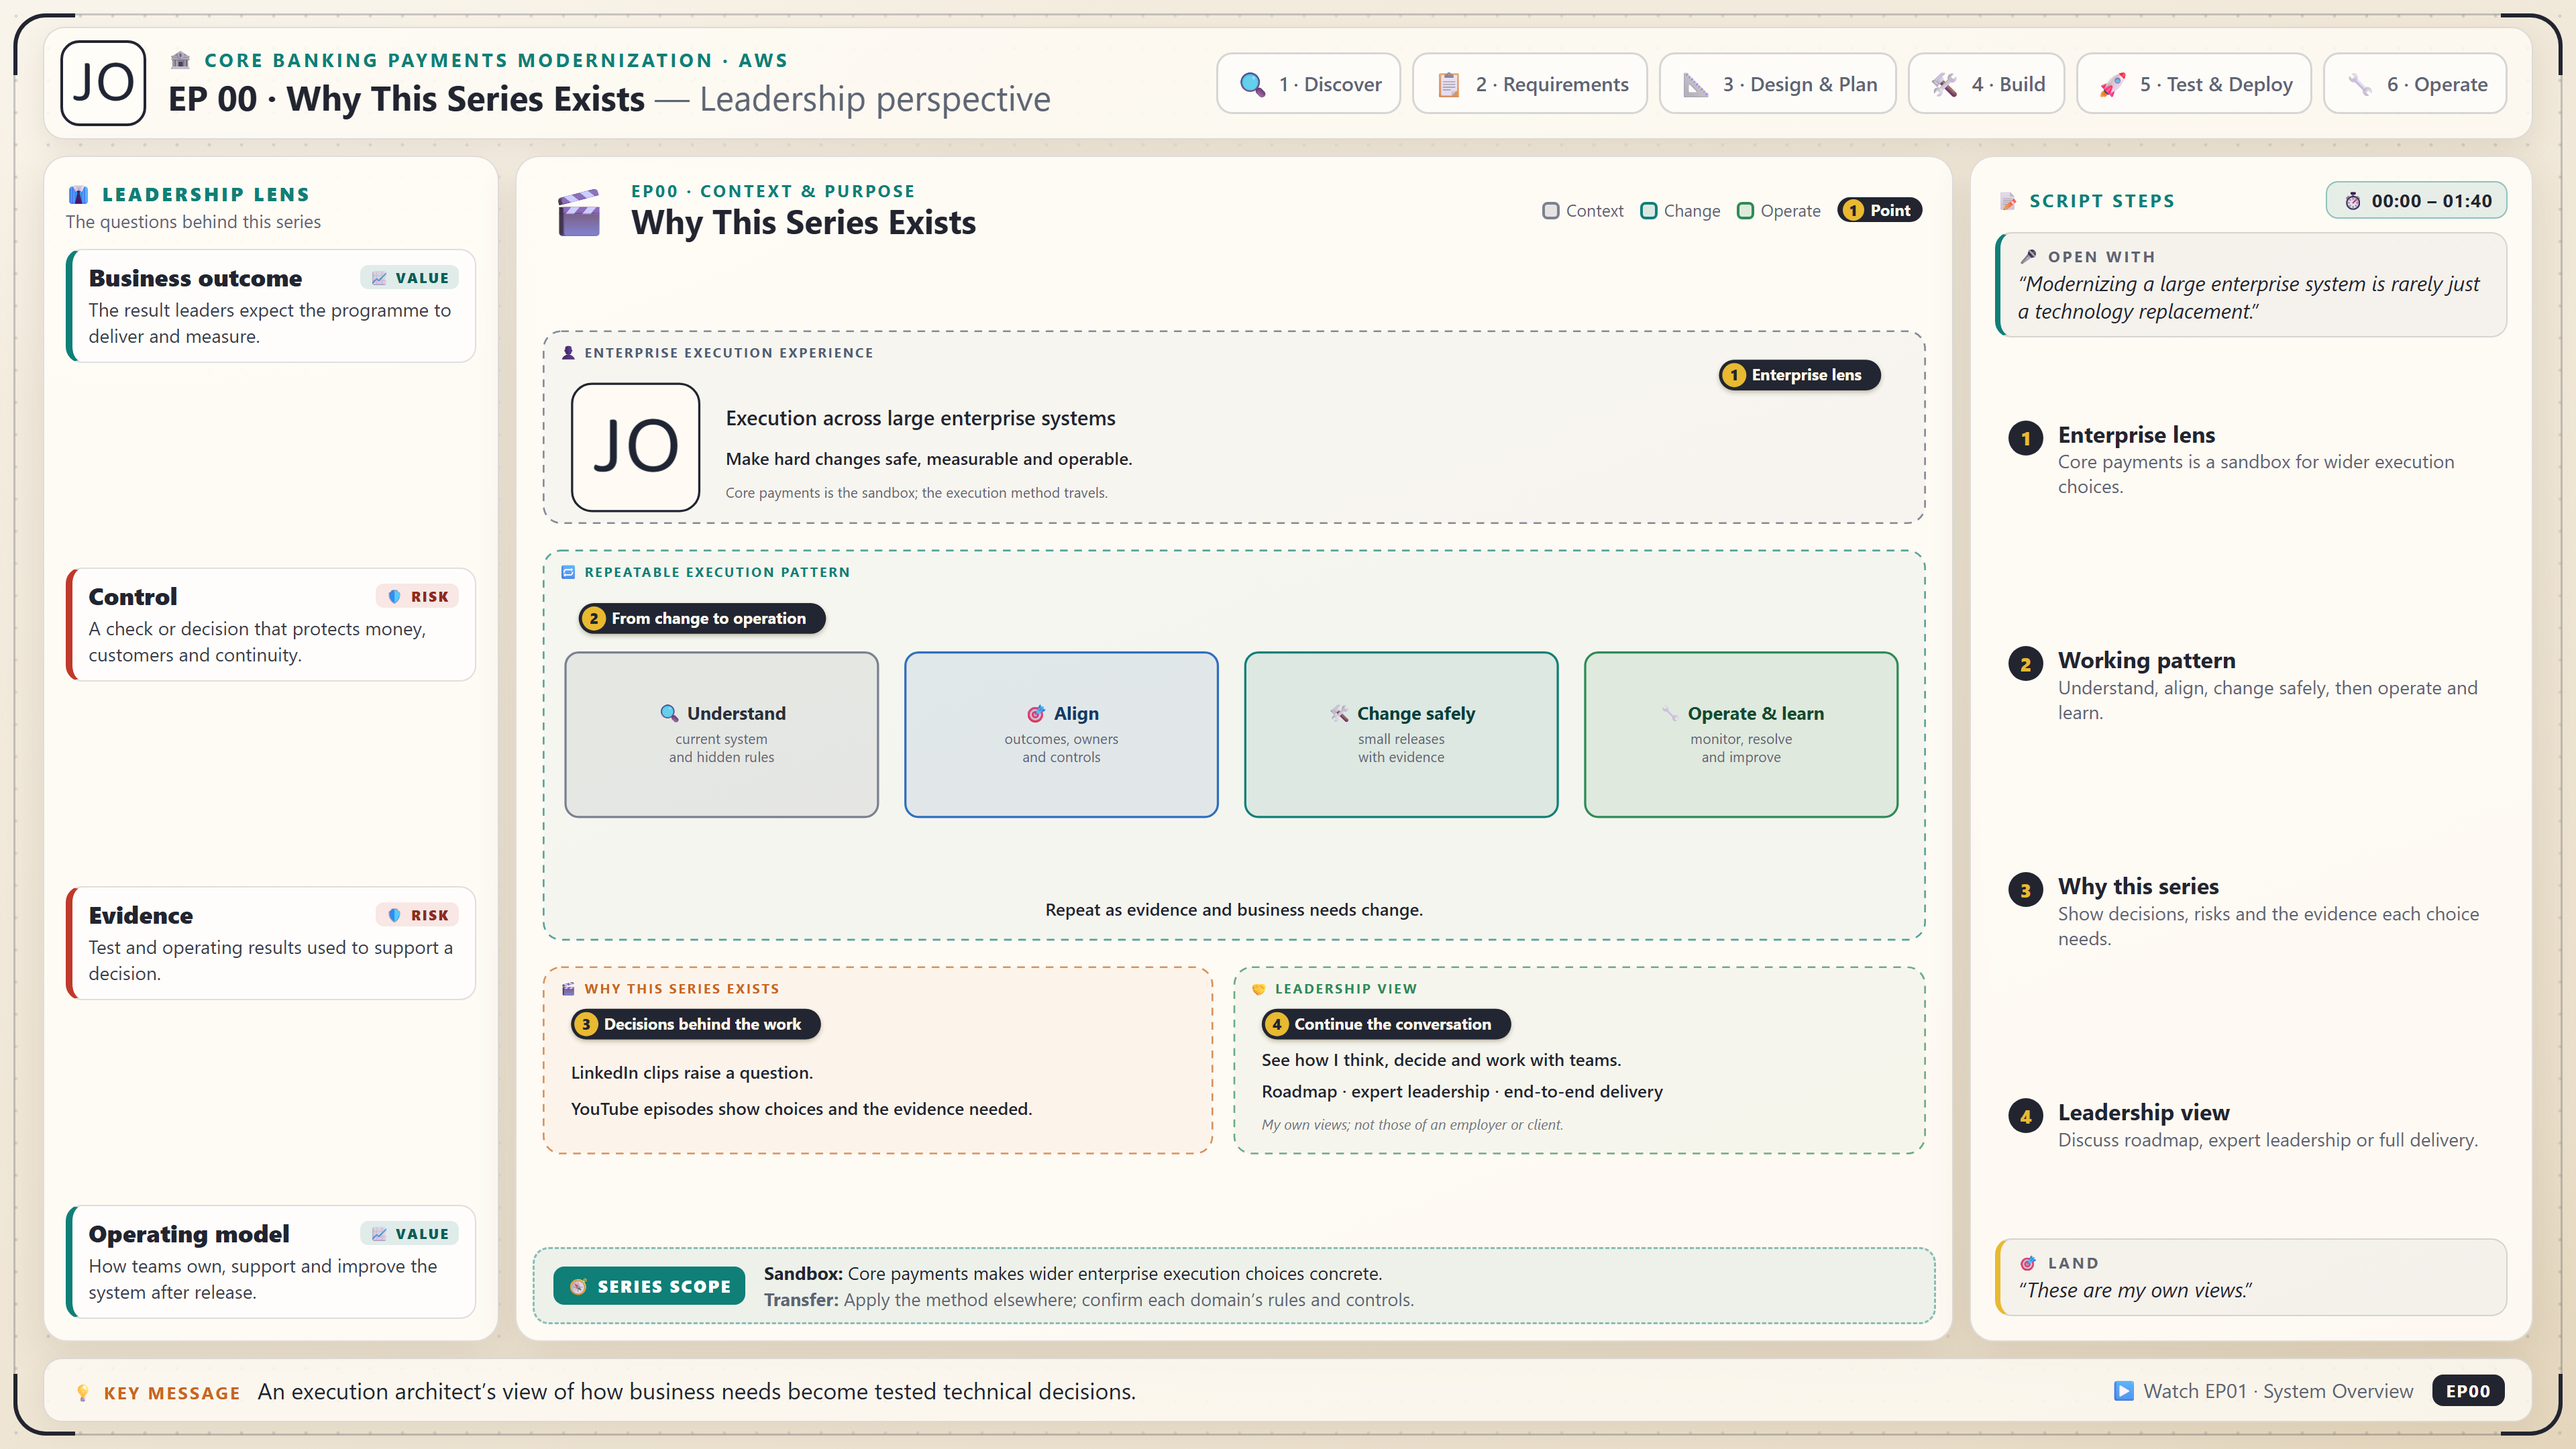
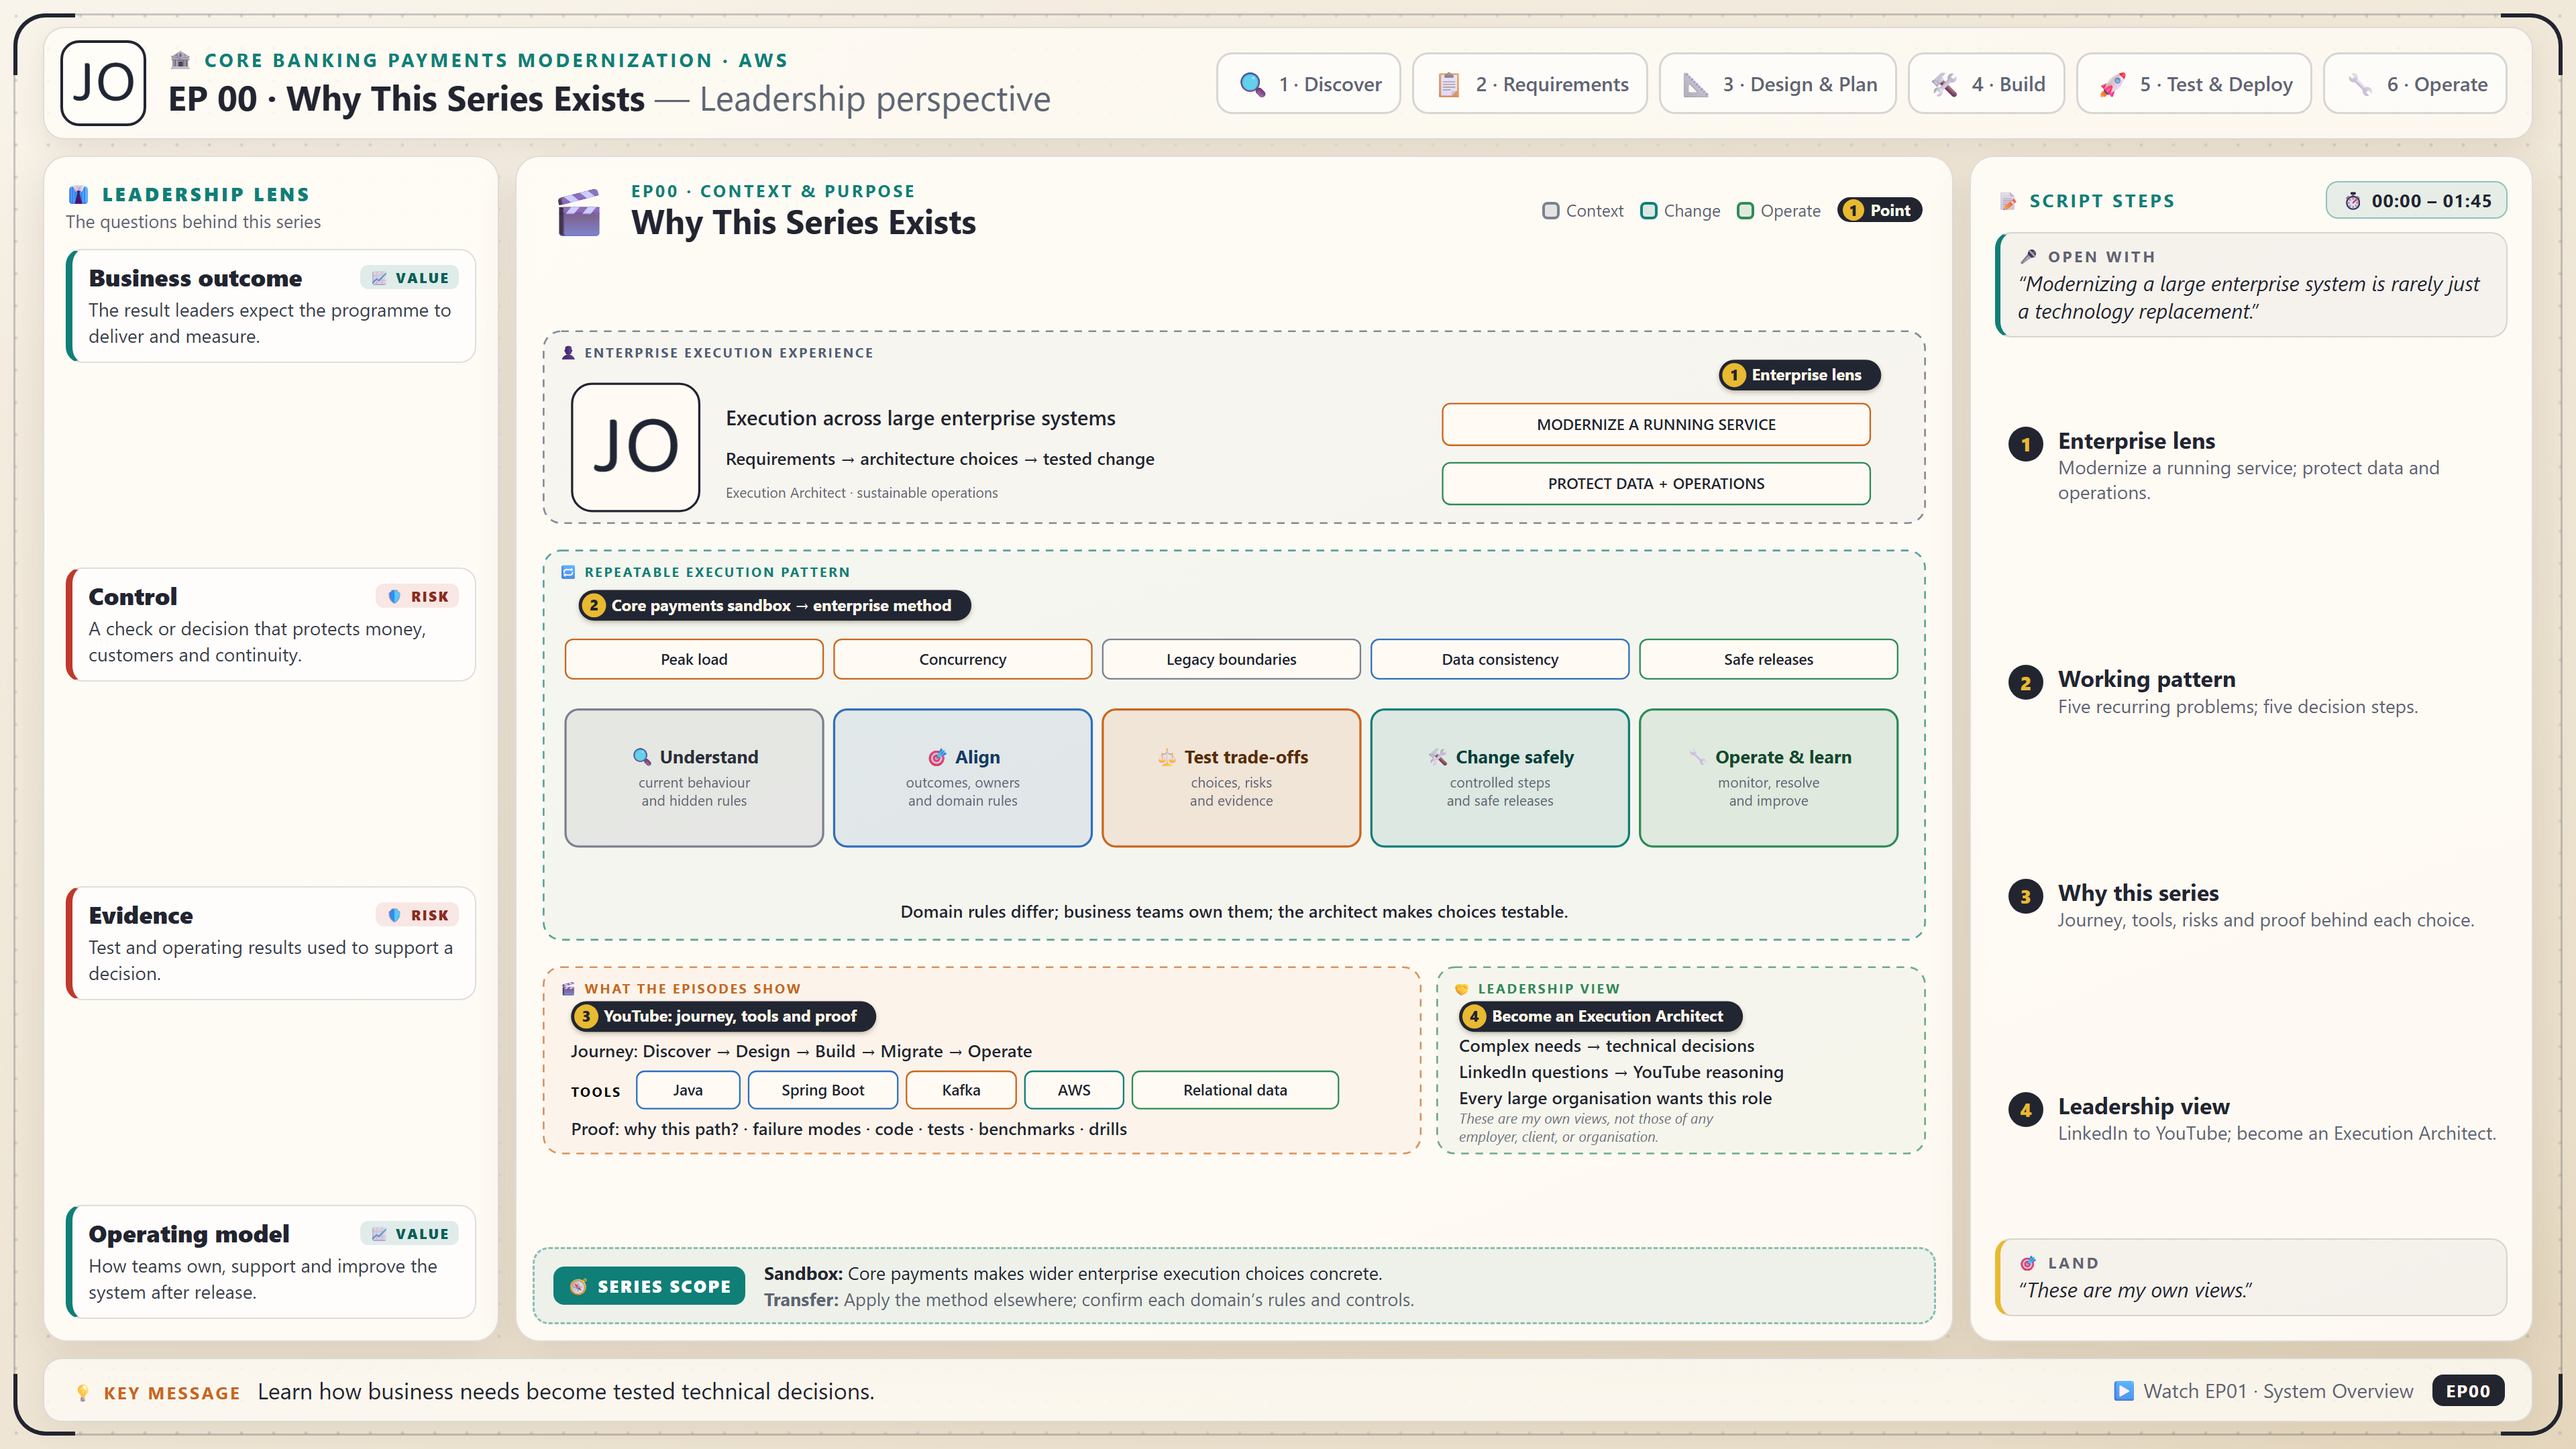
update scripts & diagrams

diff --git a/ep00-series-introduction/deck.html b/ep00-series-introduction/deck.html
@@ -15,32 +15,49 @@ function d1(){return [
   '<rect x="36" y="73" width="116" height="116" rx="18" fill="#FFFBF4" stroke="#222530" stroke-width="2"/>',
   '<image href="../shared/jo-logo.png" x="48" y="85" width="92" height="92"/>',
   txt(176,111,'Execution across large enterprise systems','gx'),
-  txt(176,147,'Make hard changes safe, measurable and operable.','kl'),
-  txt(176,177,'Core payments is the sandbox; the execution method travels.','bsl'),
+  txt(176,147,'Requirements → architecture choices → tested change','kl'),
+  txt(176,177,'Execution Architect · sustainable operations','bsl'),
+  mini({x:830,y:91,w:390,h:38,t:'MODERNIZE A RUNNING SERVICE',k:'risk'}),
+  mini({x:830,y:145,w:390,h:38,t:'PROTECT DATA + OPERATIONS',k:'good'}),
   tag(1,1230,65,'Enterprise lens','r'),
 
   group({x:10,y:225,w:1260,h:355,k:'aws',label:'🔁 REPEATABLE EXECUTION PATTERN'}),
-  tag(2,42,287,'From change to operation'),
-  box({x:30,y:318,w:285,h:150,k:'legacy',i:'🔍',t:'Understand',s:'current system\nand hidden rules'}),
-  box({x:340,y:318,w:285,h:150,k:'human',i:'🎯',t:'Align',s:'outcomes, owners\nand controls'}),
-  box({x:650,y:318,w:285,h:150,k:'aws',i:'🛠',t:'Change safely',s:'small releases\nwith evidence'}),
-  box({x:960,y:318,w:285,h:150,k:'good',i:'🔧',t:'Operate & learn',s:'monitor, resolve\nand improve'}),
-  arrow([[315,393],[340,393]],{k:'aws',st:2}),
-  arrow([[625,393],[650,393]],{k:'aws',st:2}),
-  arrow([[935,393],[960,393]],{k:'aws',st:2}),
-  arrow([[1100,468],[1100,522],[172,522],[172,468]],{k:'good',st:2}),
-  txt(640,558,'Repeat as evidence and business needs change.','kl','middle'),
+  tag(2,42,275,'Core payments sandbox → enterprise method'),
+  mini({x:30,y:306,w:235,h:36,t:'Peak load',k:'risk'}),
+  mini({x:275,y:306,w:235,h:36,t:'Concurrency',k:'risk'}),
+  mini({x:520,y:306,w:235,h:36,t:'Legacy boundaries',k:'legacy'}),
+  mini({x:765,y:306,w:235,h:36,t:'Data consistency',k:'human'}),
+  mini({x:1010,y:306,w:235,h:36,t:'Safe releases',k:'good'}),
+  box({x:30,y:370,w:235,h:125,k:'legacy',i:'🔍',t:'Understand',s:'current behaviour\nand hidden rules'}),
+  box({x:275,y:370,w:235,h:125,k:'human',i:'🎯',t:'Align',s:'outcomes, owners\nand domain rules'}),
+  box({x:520,y:370,w:235,h:125,k:'risk',i:'⚖',t:'Test trade-offs',s:'choices, risks\nand evidence'}),
+  box({x:765,y:370,w:235,h:125,k:'aws',i:'🛠',t:'Change safely',s:'controlled steps\nand safe releases'}),
+  box({x:1010,y:370,w:235,h:125,k:'good',i:'🔧',t:'Operate & learn',s:'monitor, resolve\nand improve'}),
+  arrow([[265,432],[275,432]],{k:'aws',st:2}),
+  arrow([[510,432],[520,432]],{k:'aws',st:2}),
+  arrow([[755,432],[765,432]],{k:'aws',st:2}),
+  arrow([[1000,432],[1010,432]],{k:'aws',st:2}),
+  arrow([[1127,495],[1127,525],[147,525],[147,495]],{k:'good',st:2}),
+  txt(640,560,'Domain rules differ; business teams own them; the architect makes choices testable.','kl','middle'),
 
-  group({x:10,y:605,w:610,h:170,k:'risk',label:'🎬 WHY THIS SERIES EXISTS'}),
-  tag(3,35,657,'Decisions behind the work'),
-  txt(35,707,'LinkedIn clips raise a question.','kl'),
-  txt(35,740,'YouTube episodes show choices and the evidence needed.','kl'),
+  group({x:10,y:605,w:800,h:170,k:'risk',label:'🎬 WHAT THE EPISODES SHOW'}),
+  tag(3,35,650,'YouTube: journey, tools and proof'),
+  txt(35,687,'Journey: Discover → Design → Build → Migrate → Operate','kl'),
+  txt(35,723,'TOOLS','gl'),
+  mini({x:95,y:700,w:94,h:34,t:'Java',k:'human'}),
+  mini({x:197,y:700,w:136,h:34,t:'Spring Boot',k:'human'}),
+  mini({x:341,y:700,w:100,h:34,t:'Kafka',k:'risk'}),
+  mini({x:449,y:700,w:90,h:34,t:'AWS',k:'aws'}),
+  mini({x:547,y:700,w:188,h:34,t:'Relational data',k:'good'}),
+  txt(35,758,'Proof: why this path? · failure modes · code · tests · benchmarks · drills','kl'),
 
-  group({x:640,y:605,w:630,h:170,k:'good',label:'🤝 LEADERSHIP VIEW'}),
-  tag(4,665,657,'Continue the conversation'),
-  txt(665,695,'See how I think, decide and work with teams.','kl'),
-  txt(665,724,'Roadmap · expert leadership · end-to-end delivery','kl'),
-  txt(665,753,'My own views; not those of an employer or client.','note'),
+  group({x:825,y:605,w:445,h:170,k:'good',label:'🤝 LEADERSHIP VIEW'}),
+  tag(4,845,650,'Become an Execution Architect'),
+  txt(845,682,'Complex needs → technical decisions','kl'),
+  txt(845,706,'LinkedIn questions → YouTube reasoning','kl'),
+  txt(845,730,'Every large organisation wants this role','kl'),
+  txt(845,748,'These are my own views, not those of any','note'),
+  txt(845,764,'employer, client, or organisation.','note'),
 ].join('')}
 
 const DECK={
@@ -61,18 +78,18 @@ const DECK={
     OPERATE:['Operating model','value','How teams own, support and improve the system after release.'],
   },
   slides:[
-    {icon:'🎬',kicker:'EP00 · CONTEXT & PURPOSE',title:'Why This Series Exists',time:'00:00 – 01:40',draw:d1,
-     key:'An execution architect’s view of how business needs become tested technical decisions.',
+    {icon:'🎬',kicker:'EP00 · CONTEXT & PURPOSE',title:'Why This Series Exists',time:'00:00 – 01:45',draw:d1,
+     key:'Learn how business needs become tested technical decisions.',
      next:'▶ Watch EP01 · System Overview',
      open:'Modernizing a large enterprise system is rarely just a technology replacement.',
      land:'These are my own views.',
      gloss:[['OUTCOME',[1,2]],['CONTROL',[2]],['EVIDENCE',[2,3]],['OPERATE',[2,4]]],
      callout:['Core payments makes wider enterprise execution choices concrete.',
               'Apply the method elsewhere; confirm each domain’s rules and controls.'],
-     steps:[['Enterprise lens','Core payments is a sandbox for wider execution choices.'],
-            ['Working pattern','Understand, align, change safely, then operate and learn.'],
-            ['Why this series','Show decisions, risks and the evidence each choice needs.'],
-            ['Leadership view','Discuss roadmap, expert leadership or full delivery.']]},
+     steps:[['Enterprise lens','Modernize a running service; protect data and operations.'],
+            ['Working pattern','Five recurring problems; five decision steps.'],
+            ['Why this series','Journey, tools, risks and proof behind each choice.'],
+            ['Leadership view','LinkedIn to YouTube; become an Execution Architect.']]},
   ],
 };
 startDeck(DECK);

diff --git a/ep00-series-introduction/SCRIPT-FINAL.md b/ep00-series-introduction/SCRIPT-FINAL.md
@@ -12,8 +12,8 @@
 <!-- TIMETABLE -->
 | Slide | Words | Length | Timestamp |
 |---|---|---|---|
-| 1 · Why This Series Exists | 199 | 01:40 | 00:00 – 01:40 |
-| **Total** | **199** | **01:40** | at 125 words per minute, plus 6 s per slide for drawing |
+| 1 · Why This Series Exists | 206 | 01:45 | 00:00 – 01:45 |
+| **Total** | **206** | **01:45** | at 125 words per minute, plus 6 s per slide for drawing |
 
 ---
 
@@ -26,6 +26,6 @@
 
 **[tag 3]** The YouTube episodes follow discovery, design, build, migration, and operations. I use Java, Spring Boot, Kafka, AWS, and relational data to show **why** I would choose a path, where it could fail, and what code, tests, benchmarks, and drills would validate it.
 
-**[tag 4]** LinkedIn clips raise one question at a time. The full series shows how I **reason through the work** with business and engineering teams. For a similar transformation, let us discuss the roadmap, expert leadership, or end-to-end delivery. These are my own views, not those of any employer, client, or organisation.
+**[tag 4]** When you finish this series, you will understand how complex business needs become technical decisions, and you will become an **Execution Architect**—a role every large organisation wants. The short LinkedIn clips introduce each question; the full YouTube episodes show the thinking behind the answers. These are my own views, not those of any employer, client, or organisation.
 <!-- /slide -->
 
